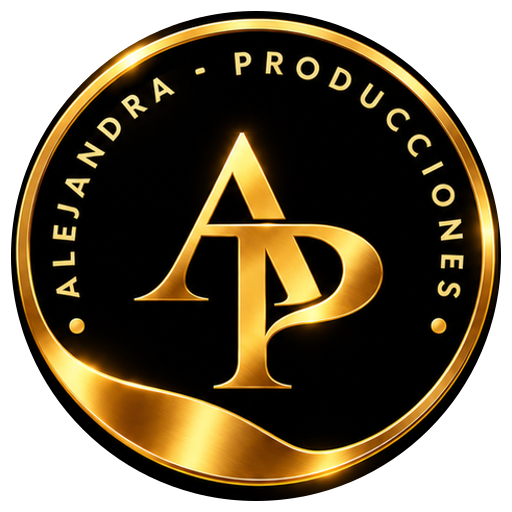
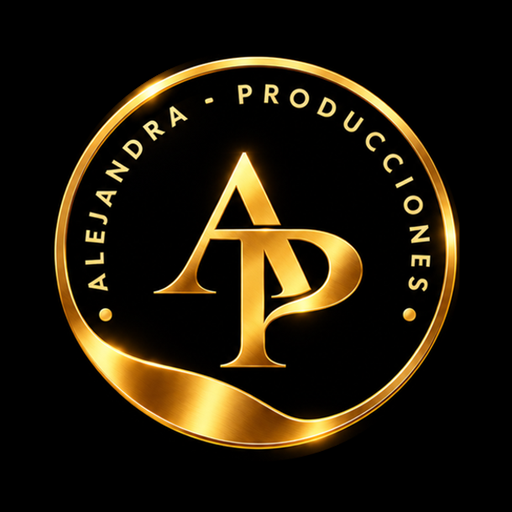
chore: add project initialization files and branding assets

diff --git a/web/app/layout.tsx b/web/app/layout.tsx
@@ -25,7 +25,7 @@ export const metadata: Metadata = {
       { url: "/favicon.ico?v=aleprod3" },
     ],
     apple: [
-      { url: "/apple-touch-icon.png?v=aleprod3", sizes: "180x180", type: "image/png" },
+      { url: "/apple-touch-icon.png?v=aleprod4", sizes: "180x180", type: "image/png" },
     ],
     shortcut: "/favicon.ico?v=aleprod3",
   },
@@ -75,7 +75,7 @@ export default function RootLayout({
         <link rel="icon" type="image/svg+xml" href="/favicon.svg?v=aleprod3" />
         <link rel="icon" type="image/png" sizes="32x32" href="/favicon-32.png?v=aleprod3" />
         <link rel="icon" type="image/png" sizes="16x16" href="/favicon-16.png?v=aleprod3" />
-        <link rel="apple-touch-icon" sizes="180x180" href="/apple-touch-icon.png?v=aleprod3" />
+        <link rel="apple-touch-icon" sizes="180x180" href="/apple-touch-icon.png?v=aleprod4" />
         <link rel="shortcut icon" href="/favicon.ico?v=aleprod3" />
       </head>
       <body className="min-h-full flex flex-col bg-background text-foreground transition-colors duration-200">

diff --git a/mobile/public/index.html b/mobile/public/index.html
@@ -18,7 +18,7 @@
     <link rel="icon" type="image/png" sizes="32x32" href="/favicon-32.png?v=aleprod3" />
     <link rel="icon" type="image/png" sizes="16x16" href="/favicon-16.png?v=aleprod3" />
     <link rel="icon" type="image/x-icon" href="/favicon.ico?v=aleprod3" />
-    <link rel="apple-touch-icon" sizes="180x180" href="/apple-touch-icon.png?v=aleprod3" />
+    <link rel="apple-touch-icon" sizes="180x180" href="/apple-touch-icon.png?v=aleprod4" />
     <link rel="manifest" href="/manifest.json" />
     <link rel="preload" href="/fonts/Ionicons.ttf" as="font" type="font/ttf" crossorigin="anonymous" />
     <link rel="preload" href="/icons/icon-192.png" as="image" />

diff --git a/.ai/05-estado-actual.md b/.ai/05-estado-actual.md
@@ -116,6 +116,24 @@
 
 ## 5. Bitácora de Cambios Recientes (Session Log)
 
+- **2026-11-05 (Sesión 70 — Erradicación de Fondo Blanco en Iconos PWA, Unificación a Negro Profundo #000000 y Calibración Safe-Zone en Móvil/Web):**
+  - **Diagnóstico Causa Raíz de Fondo Blanco en PWA:**
+    - Al añadir la aplicación a la pantalla de inicio en iOS (Safari `apple-touch-icon`) y Android (Chrome Adaptive Icons), cualquier archivo PNG con canal alfa transparente (`Alpha = 0`) es rellenado forzosamente por el sistema operativo con un lienzo/platillo **blanco sólido (`#FFFFFF`)**, dado que ni iOS ni Android permiten transparencias en los accesos directos de pantalla de inicio.
+    - Se constató que `apple-touch-icon.png`, `icons/icon-192.png`, `icons/icon-512.png` y `android-icon-background.png` poseían transparencia o fondo claro residual (`#E6F4FE`).
+  - **Regeneración de Activos con Fondo Negro Puro (`#000000`):**
+    - Se compusieron y generaron todos los iconos del ecosistema con fondo sólido negro `#000000` (`Alpha = 255`) y renderizado de alta fidelidad bicúbica del isotipo dorado centralizado con margen seguro (~15% safe area) para evitar que los squircles/recortes redondeados de iOS y Android corten el emblema:
+      - `mobile/public/apple-touch-icon.png` (180×180 px con 15px de padding).
+      - `mobile/public/icons/icon-192.png` y `icon-512.png`.
+      - `mobile/public/icon.png` y `mobile/assets/icon.png`.
+      - `mobile/assets/android-icon-background.png` (512×512 negro puro).
+      - Replicado en `web/public/` y `assets/brand/alejandra_producciones_assets/`.
+  - **Busting de Caché y Exportación:**
+    - Se actualizó el parámetro de versión de caché a `?v=aleprod4` en `mobile/public/index.html` y `web/app/layout.tsx`.
+    - Se regeneró el build de exportación estática de la PWA móvil con `npx expo export --platform web`, actualizando `mobile/dist/`.
+  - **Validación Técnica:**
+    - `npx tsc --noEmit` en `/mobile`: **0 errores de compilación**.
+    - `npx tsc --noEmit` en `/web`: **0 errores de compilación**.
+
 - **2026-11-04 (Sesión 65 — Erradicación Definitiva de Franja Inferior PWA WebKit, Anclaje Inset 0 Absoluto y Calibración de Clearance Inferior en Pestañas):**
   - **Diagnóstico y Resolución Causa Raíz de la Franja Inferior PWA:**
     - Se identificó que las reglas `height: 100dvh; min-height: 100dvh;` en `html, body` y `#root` provocaban que WebKit en iOS PWA Standalone dimensionara el contenedor según el layout viewport interno (excluyendo los 34px del Home Indicator), dejando una franja negra inerte bajo la barra y empujando las tarjetas hacia arriba.
